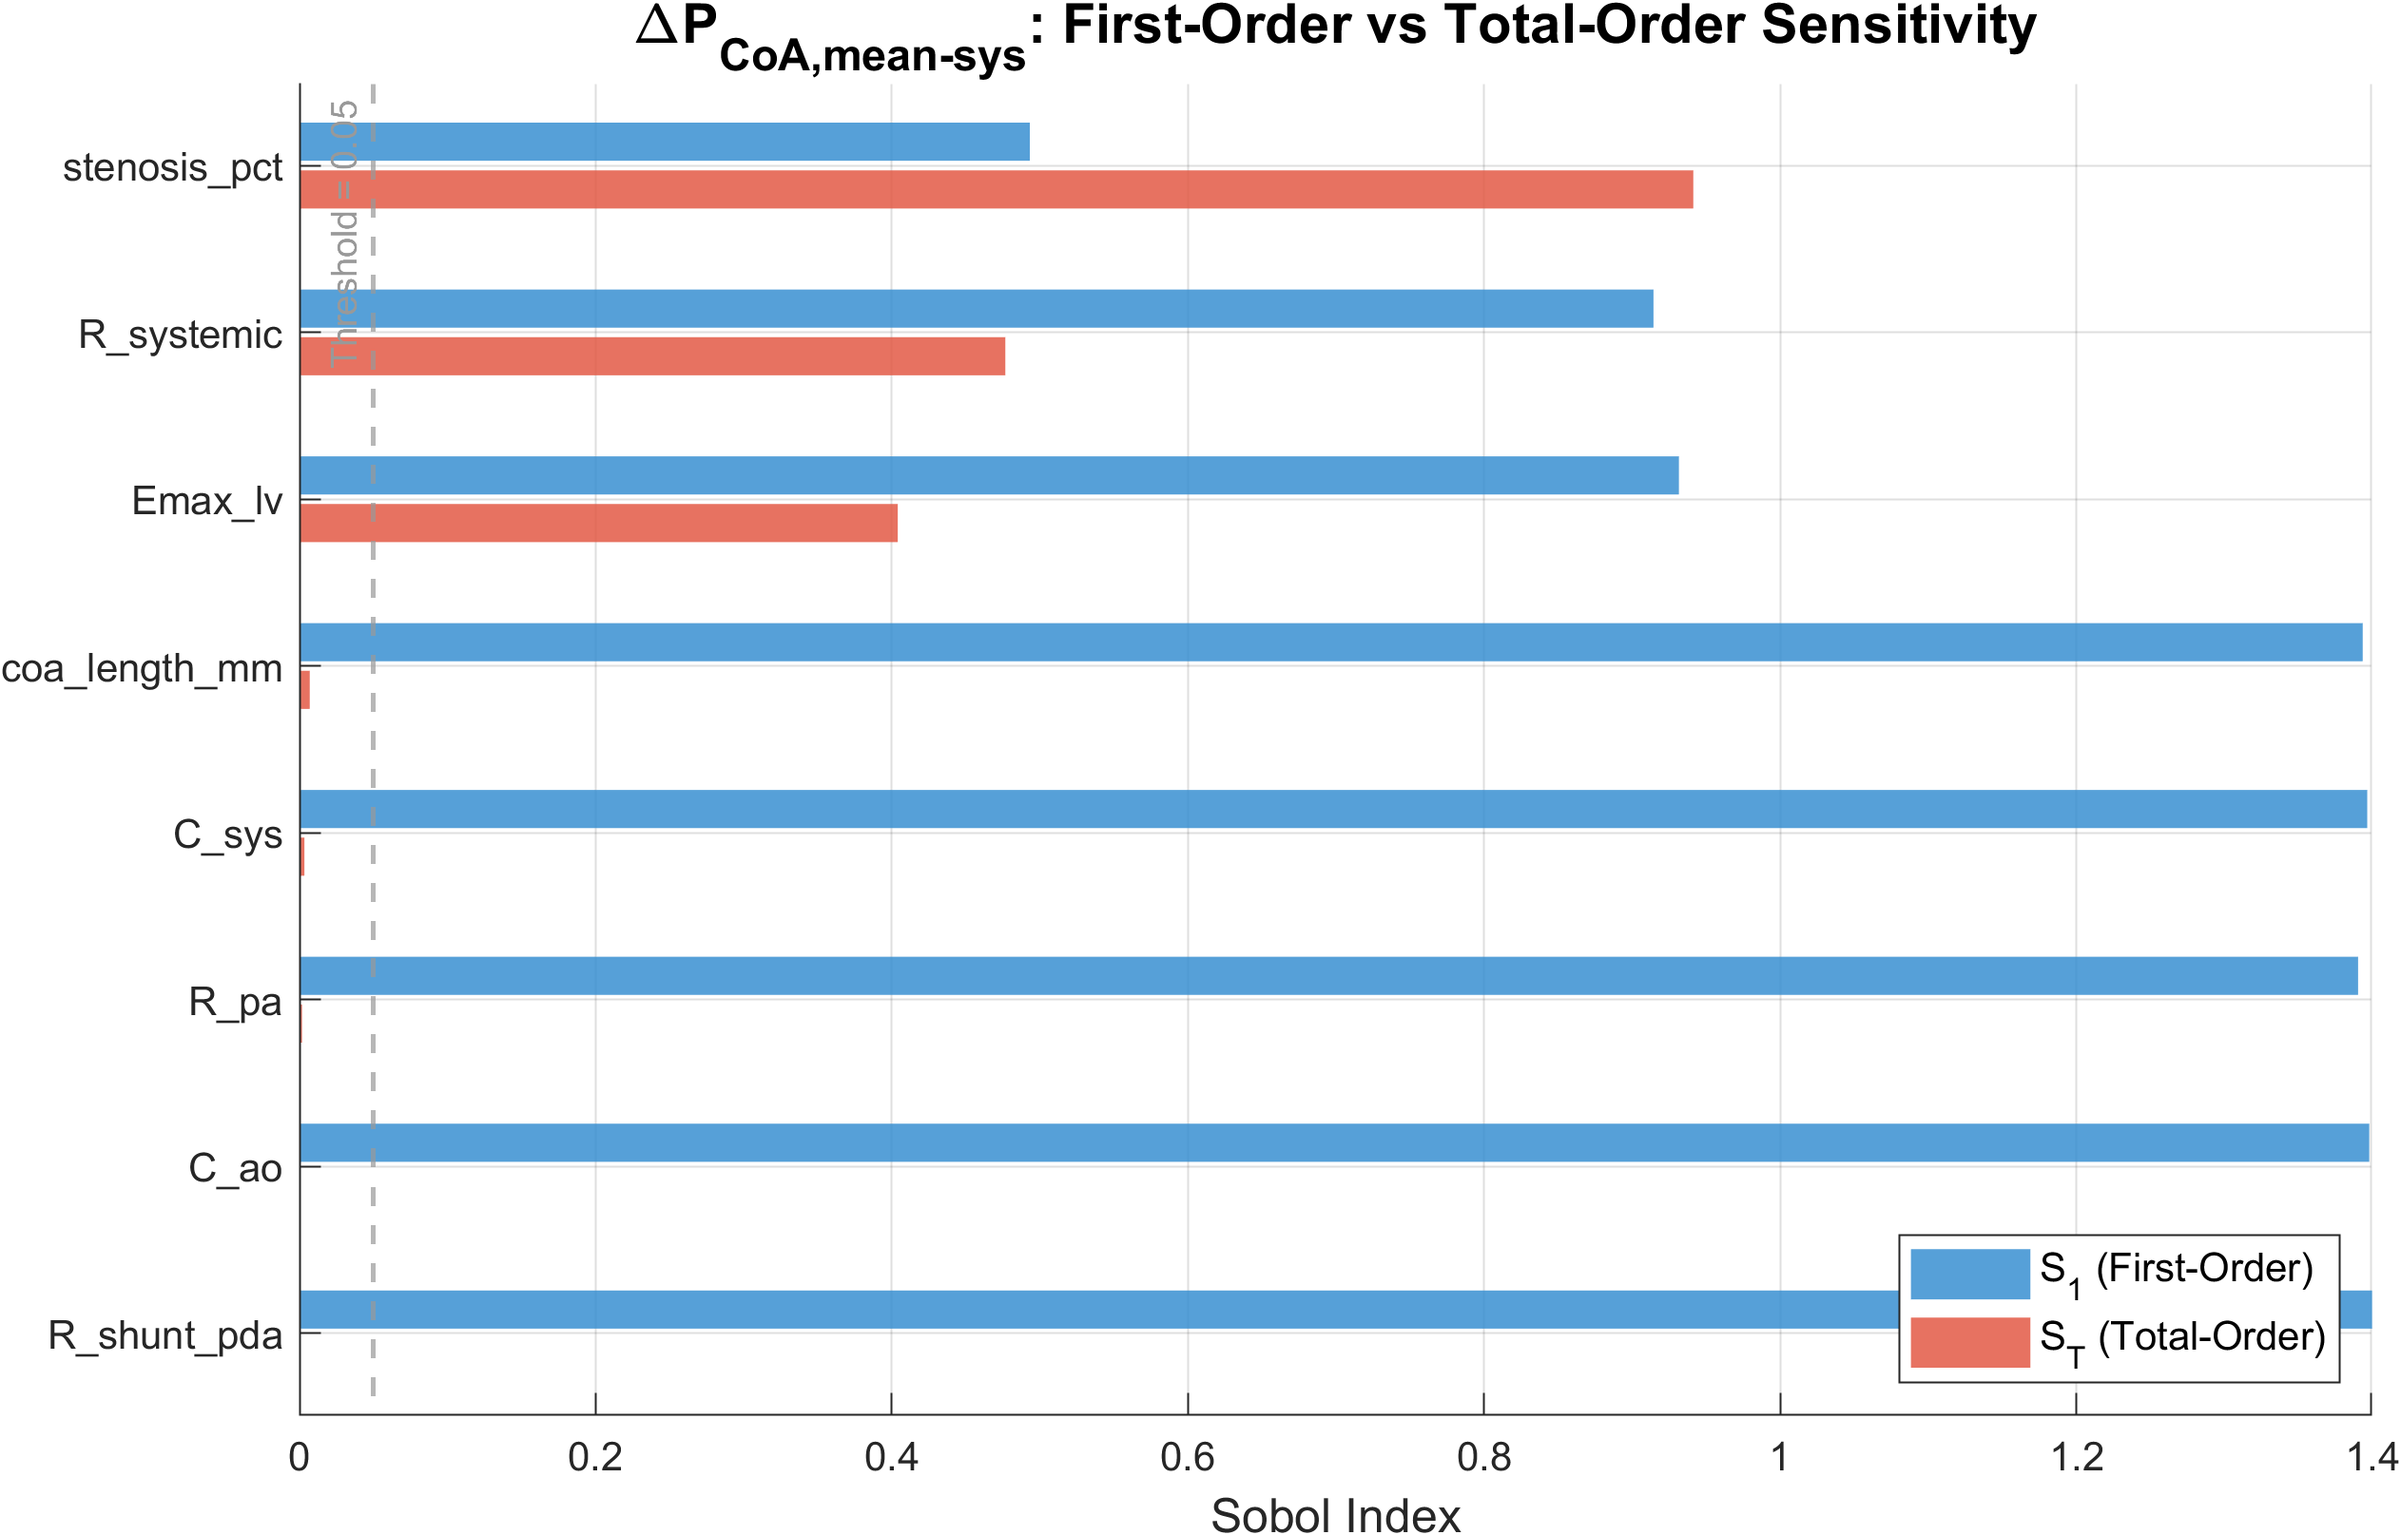
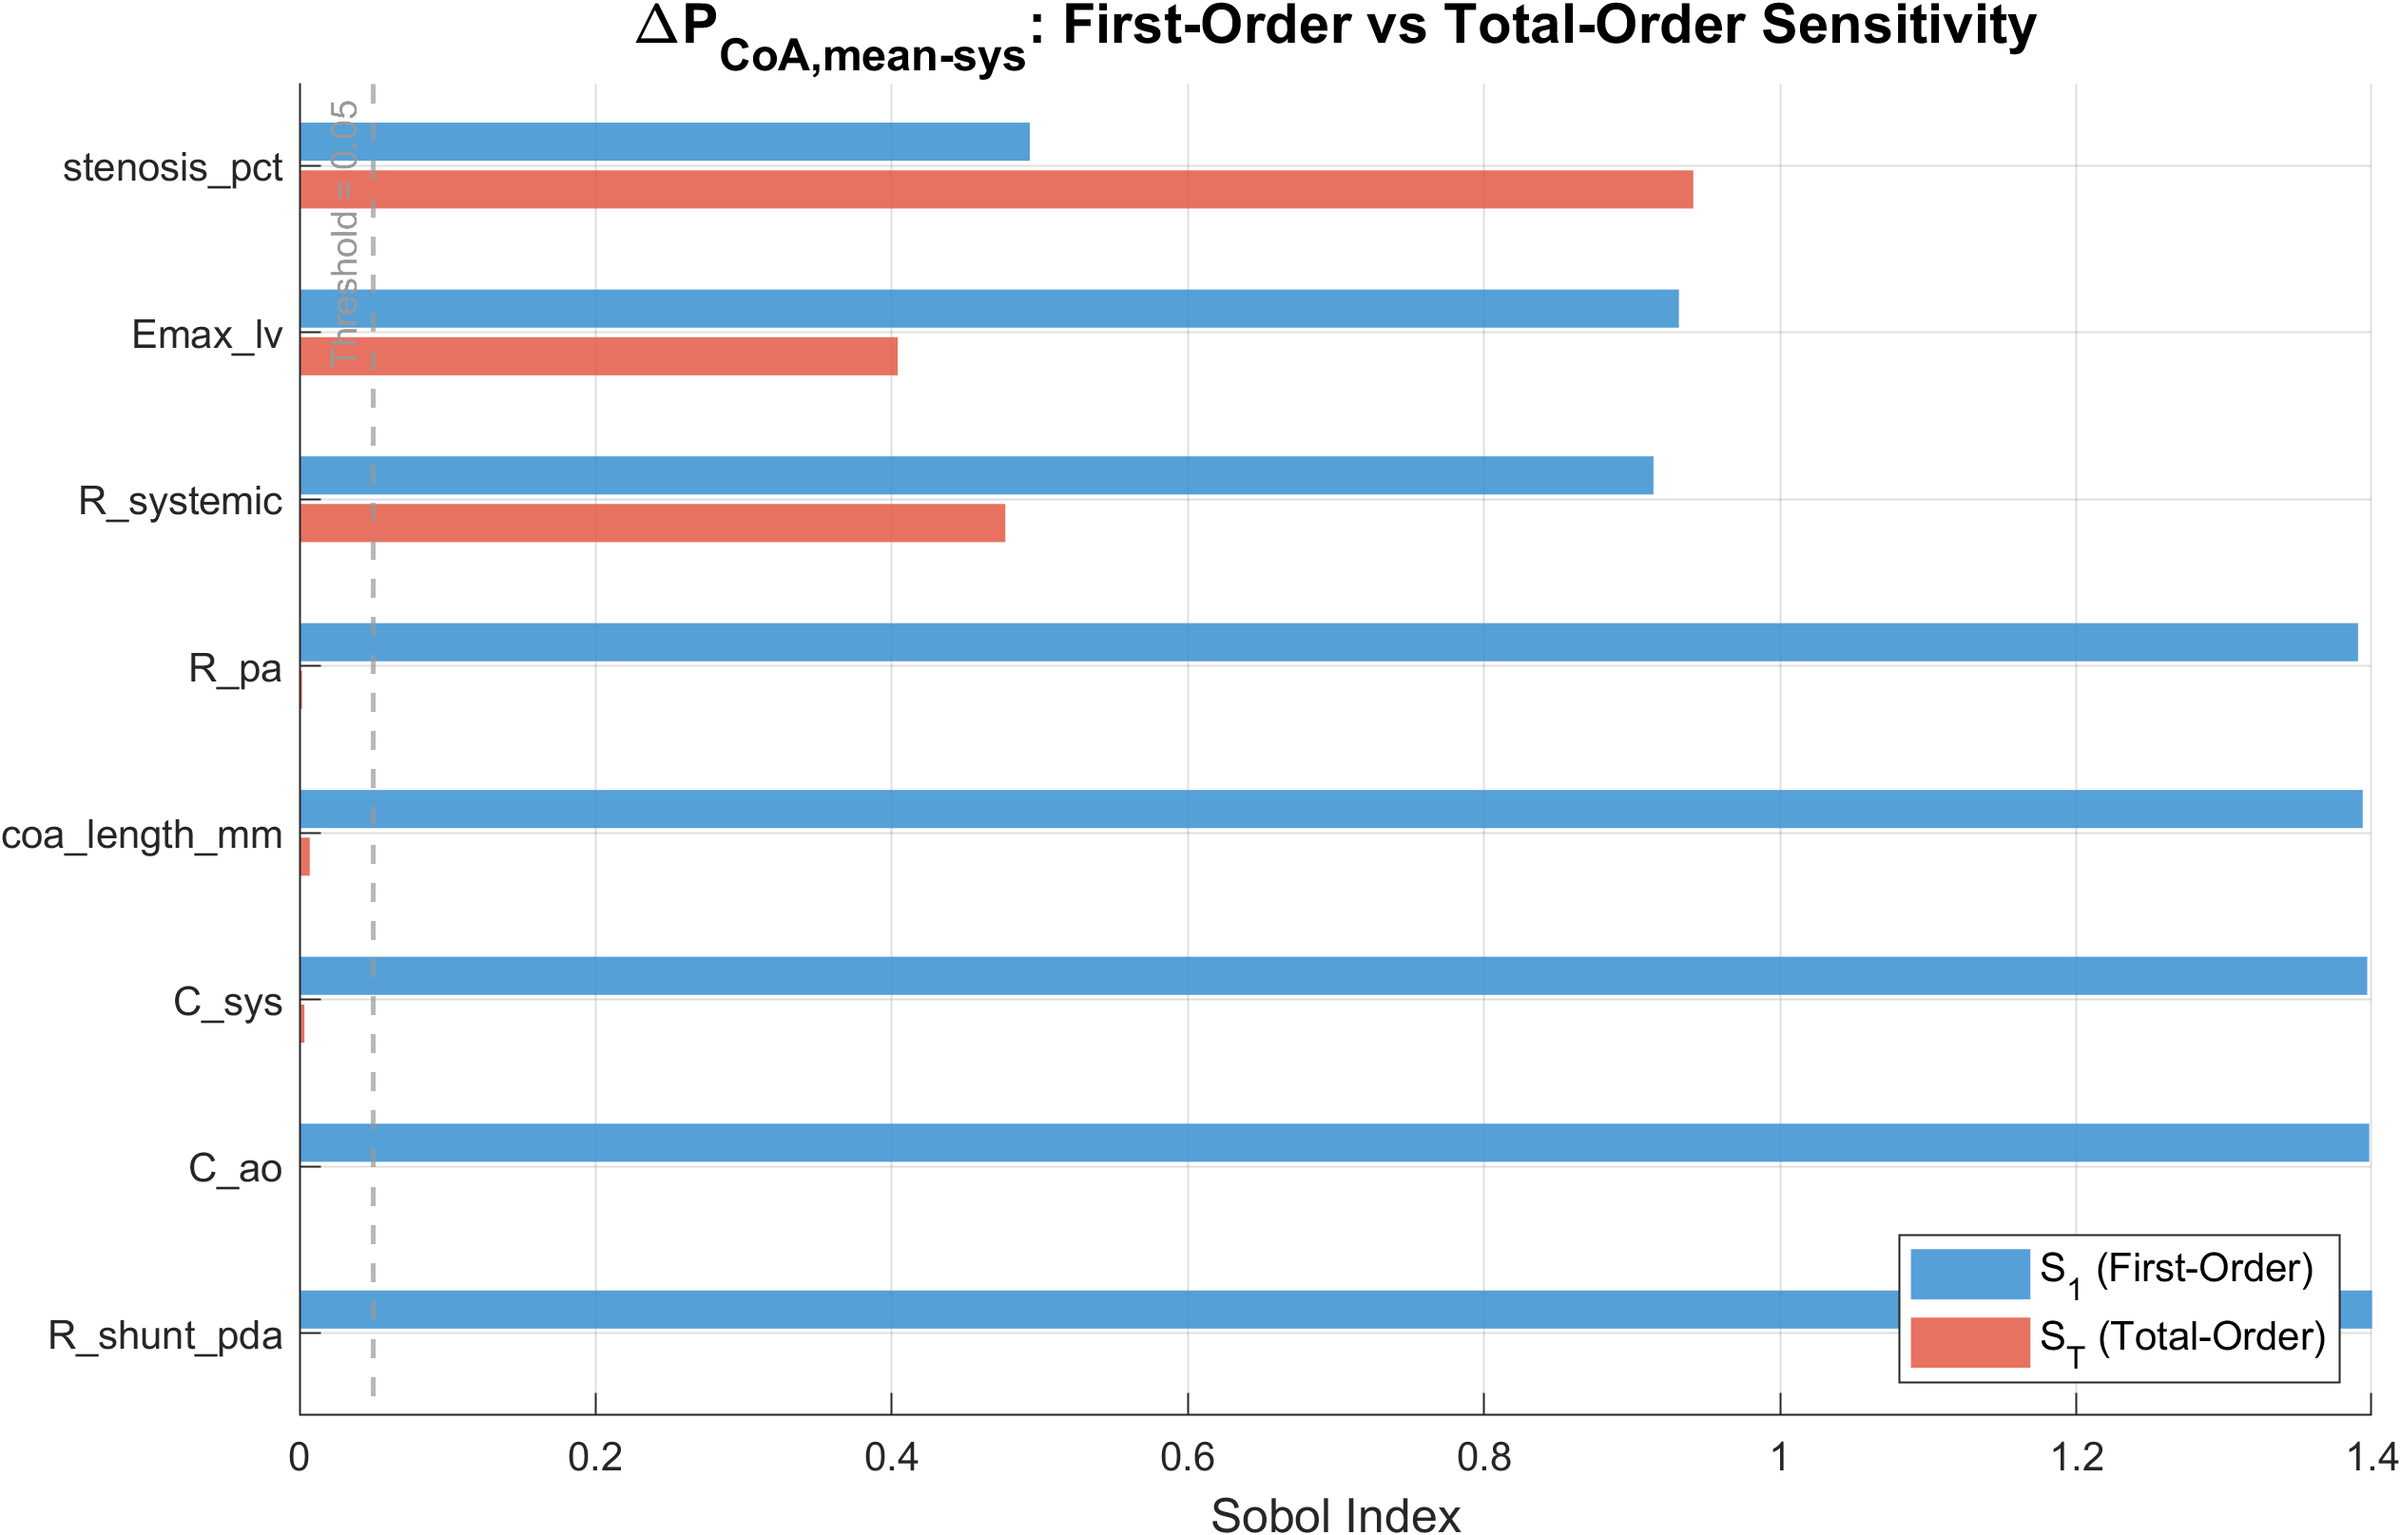
newest gsa runs

diff --git a/pda_lpm/run_sobol_gsa_pda_coa.m b/pda_lpm/run_sobol_gsa_pda_coa.m
@@ -204,7 +204,8 @@ for q = 1:n_outputs
 end
 
 T_indices = cell2table(rows_cell, ...
-    'VariableNames', {'Output', 'Parameter', 'S1', 'S1_CI_lower', 'S1_CI_upper', ...
+    'VariableNames', {'Output', 'Param
+ter', 'S1', 'S1_CI_lower', 'S1_CI_upper', ...
                       'ST', 'ST_CI_lower', 'ST_CI_upper'});
 
 csv_indices_path = fullfile(results_dir, 'sobol_indices.csv');
